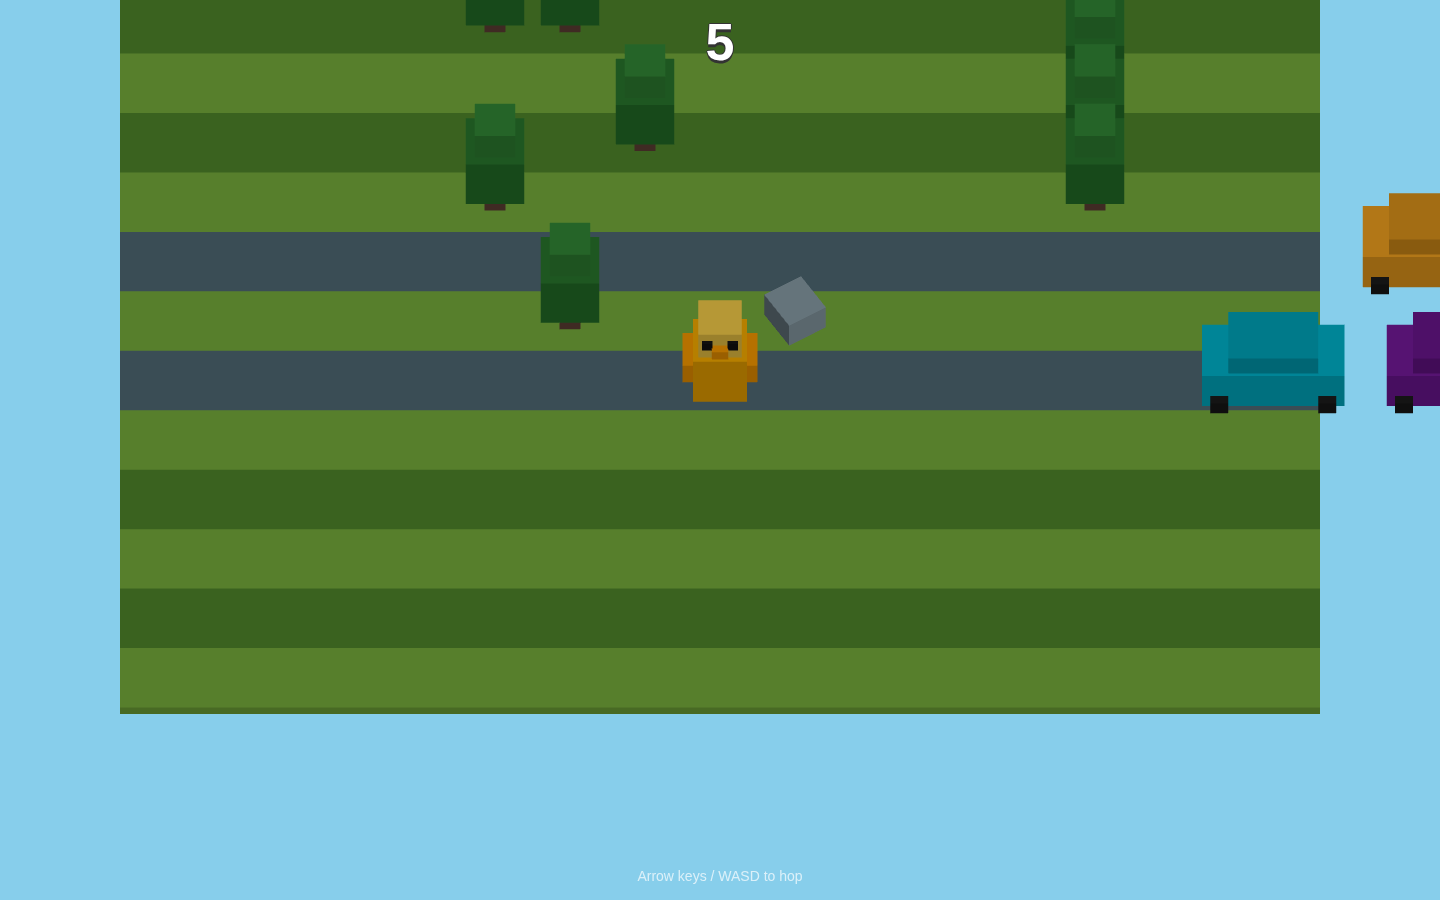
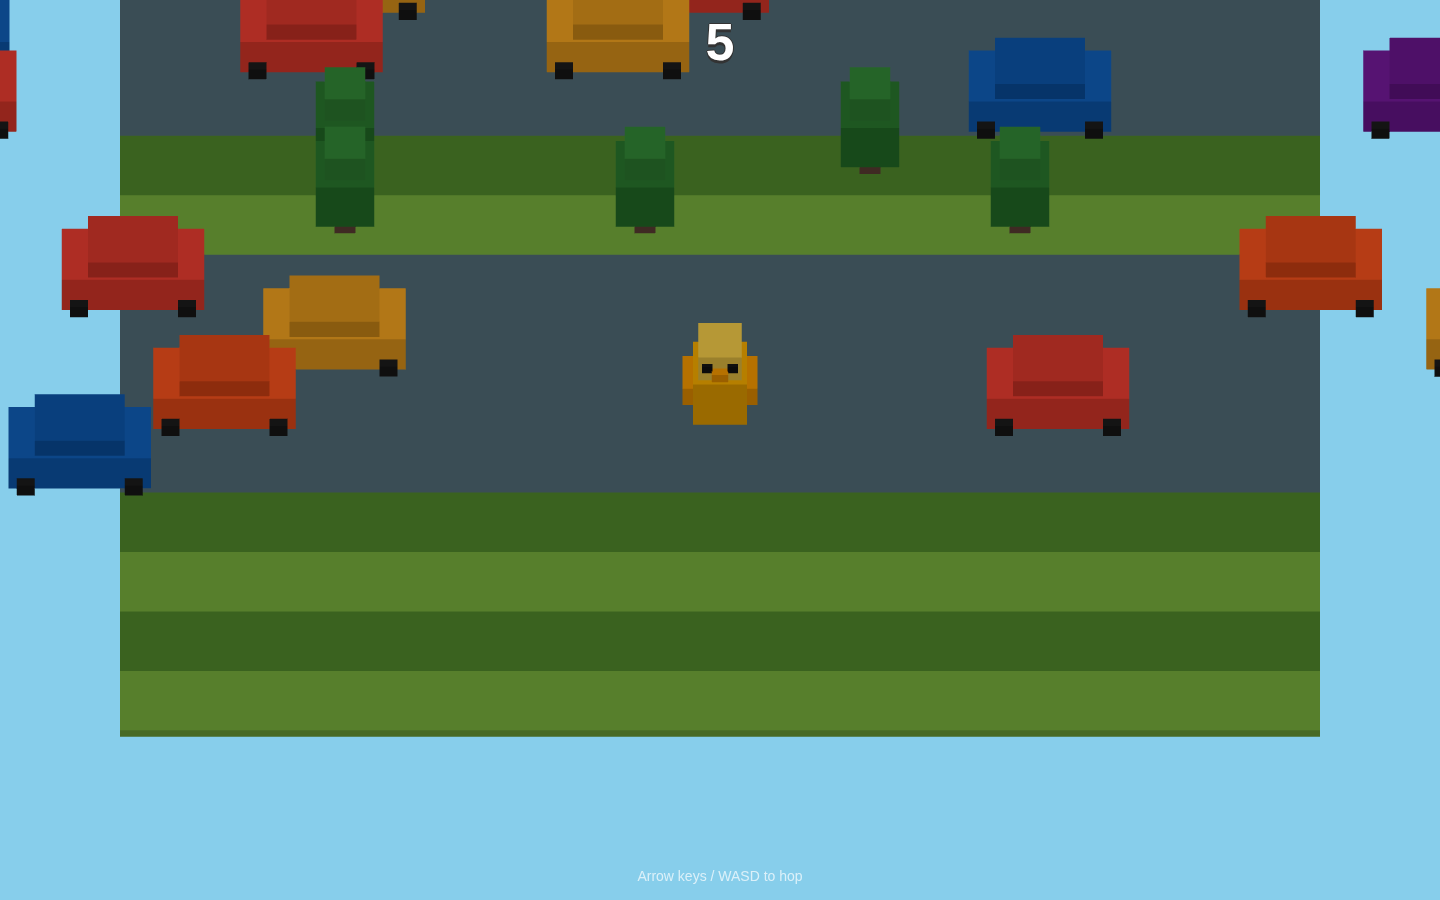
Add difficulty selector and road-heavy lane generation
- Easy/Normal/Hard presets in DIFFICULTIES (lanes.js), persisted to
  localStorage and selectable on the menu overlay
- Each preset tunes road frequency, vehicle speed/density, truck rate,
  safe-row count, and camera auto-advance speed
- Roads now dominate the world after a short safe start on every preset

https://claude.ai/code/session_01KWiQVDTZJgAXaxTVPrL1LZ

diff --git a/crossy-road/js/lanes.js b/crossy-road/js/lanes.js
@@ -111,24 +111,56 @@ function darken(color, factor) {
   return c.getHex();
 }
 
+// ─── Difficulty presets ───────────────────────────────────────────────────────
+// Road-heavy by design: even Easy is mostly traffic after the safe start.
+export const DIFFICULTIES = {
+  easy: {
+    label: 'Easy',
+    safeRows: 4,
+    roadBase: 0.45, roadRamp: 0.020, roadMax: 0.75,
+    speedBase: 2.2, speedRamp: 0.060, speedMax: 6.0,
+    countMin: 1, countMax: 3, countRamp: 12,
+    truckChance: 0.20, autoAdvance: 0.22,
+  },
+  normal: {
+    label: 'Normal',
+    safeRows: 3,
+    roadBase: 0.65, roadRamp: 0.025, roadMax: 0.85,
+    speedBase: 2.8, speedRamp: 0.090, speedMax: 7.5,
+    countMin: 2, countMax: 4, countRamp: 8,
+    truckChance: 0.25, autoAdvance: 0.35,
+  },
+  hard: {
+    label: 'Hard',
+    safeRows: 2,
+    roadBase: 0.82, roadRamp: 0.020, roadMax: 0.94,
+    speedBase: 3.6, speedRamp: 0.120, speedMax: 9.5,
+    countMin: 3, countMax: 5, countRamp: 6,
+    truckChance: 0.32, autoAdvance: 0.50,
+  },
+};
+
 // ─── Lane difficulty helpers ──────────────────────────────────────────────────
-function getLaneType(row, rng) {
-  if (row <= 3) return 'grass';
-  const roadChance = Math.min(0.65, 0.15 + row * 0.02);
-  return rng() < roadChance ? 'road' : 'grass';
+function getLaneType(row, cfg) {
+  if (row <= cfg.safeRows) return 'grass';
+  const ramp = (row - cfg.safeRows) * cfg.roadRamp;
+  const roadChance = Math.min(cfg.roadMax, cfg.roadBase + ramp);
+  return Math.random() < roadChance ? 'road' : 'grass';
 }
 
-function getVehicleSpeed(row) {
-  const base = 2.5 + Math.min(row * 0.08, 5.0);
-  return rand(base * 0.8, base * 1.2);
+function getVehicleSpeed(row, cfg) {
+  const base = cfg.speedBase + Math.min(row * cfg.speedRamp, cfg.speedMax - cfg.speedBase);
+  return rand(base * 0.85, base * 1.15);
 }
 
-function getVehicleCount(row) {
-  return randInt(2, Math.min(4, 2 + Math.floor(row / 8)));
+function getVehicleCount(row, cfg) {
+  const cap = Math.min(cfg.countMax, cfg.countMin + Math.floor(row / cfg.countRamp));
+  return randInt(cfg.countMin, cap);
 }
 
 // ─── Lane manager ─────────────────────────────────────────────────────────────
 export function createLaneManager(scene) {
+  let cfg = DIFFICULTIES.normal;
   const activeLanes = new Map(); // row -> laneData
   // Pools (recycled lane components)
   const groundPool = [];
@@ -152,7 +184,7 @@ export function createLaneManager(scene) {
   function setupLane(row) {
     if (activeLanes.has(row)) return;
 
-    const type = getLaneType(row, Math.random.bind(Math));
+    const type = getLaneType(row, cfg);
     const worldZ = -row * CELL;
 
     const ground = getFromPool(groundPool, makeGround);
@@ -206,11 +238,11 @@ export function createLaneManager(scene) {
   function setupRoadLane(lane, row) {
     lane.occupiedCols = new Set();
     const dir = Math.random() < 0.5 ? 1 : -1;
-    const speed = getVehicleSpeed(row);
-    const count = getVehicleCount(row);
+    const speed = getVehicleSpeed(row, cfg);
+    const count = getVehicleCount(row, cfg);
 
     for (let i = 0; i < count; i++) {
-      const isLong = Math.random() < 0.25 && row > 8;
+      const isLong = Math.random() < cfg.truckChance && row > 8;
       const color = isLong ? pick(TRUCK_COLORS) : pick(CAR_COLORS);
       const mesh = isLong
         ? getFromPool(truckPool, (s) => makeTruck(s, color))
@@ -302,7 +334,15 @@ export function createLaneManager(scene) {
     for (const row of activeLanes.keys()) recycleLane(row);
   }
 
-  return { ensureRow, recycleBehind, update, isCellBlocked, getLane, reset };
+  function setDifficulty(key) {
+    cfg = DIFFICULTIES[key] || DIFFICULTIES.normal;
+  }
+
+  function getConfig() {
+    return cfg;
+  }
+
+  return { ensureRow, recycleBehind, update, isCellBlocked, getLane, reset, setDifficulty, getConfig };
 }
 
 // ─── Helpers ─────────────────────────────────────────────────────────────────

diff --git a/crossy-road/js/main.js b/crossy-road/js/main.js
@@ -7,8 +7,9 @@ import { createHUD }        from './hud.js';
 const CELL           = 1;
 const SPAWN_AHEAD    = 22;   // generate this many rows ahead of player
 const RECYCLE_BEHIND = 10;   // recycle rows this far behind player
-const AUTO_ADVANCE   = 0.35; // camera auto-advance speed (rows/sec) — idle death
 const KILL_BEHIND    = 4;    // rows behind camera before death
+
+let autoAdvance = 0.35;      // camera auto-advance speed (rows/sec) — set per difficulty
 
 // ── Smooth lerp for camera ───────────────────────────────────────────────────
 function lerp(a, b, t) { return a + (b - a) * t; }
@@ -29,7 +30,14 @@ let cameraRow  = 0;   // the row the camera is currently locked to
 const { renderer, camera, scene, updateCamera } = createScene();
 const player  = createPlayer(scene);
 const lanes   = createLaneManager(scene);
-const hud     = createHUD(onPlay);
+const hud     = createHUD(onPlay, applyDifficulty);
+
+function applyDifficulty(key) {
+  lanes.setDifficulty(key);
+}
+
+// Apply the persisted difficulty selection on load
+applyDifficulty(hud.getDifficulty());
 
 // Initial render so the scene isn't blank before "Play"
 updateCamera(0, 0);
@@ -63,6 +71,9 @@ function startGame() {
   autoRow = 0;
   cameraRow = 0;
   camFocusZ = 0;
+
+  lanes.setDifficulty(hud.getDifficulty());
+  autoAdvance = lanes.getConfig().autoAdvance;
 
   player.reset();
   lanes.reset();
@@ -100,7 +111,7 @@ function gameLoop(timestamp) {
 
   // ── Camera follow ──────────────────────────────────────────────────────────
   // auto-advance slowly pushes camera forward
-  autoRow += dt * AUTO_ADVANCE;
+  autoRow += dt * autoAdvance;
   // camera row = further of: player's max progress, or auto advance
   const targetRow = Math.max(player.maxRow, Math.floor(autoRow));
   cameraRow = Math.max(cameraRow, targetRow);

diff --git a/crossy-road/index.html b/crossy-road/index.html
@@ -40,8 +40,26 @@
     #overlay-subtitle {
       font-size: 22px; color: #FFD700;
       text-shadow: 0 2px 0 #333;
-      margin-bottom: 32px;
+      margin-bottom: 24px;
       min-height: 28px;
+    }
+
+    #difficulty {
+      display: flex; gap: 10px; margin-bottom: 28px;
+    }
+    .diff-btn {
+      font-family: inherit; font-size: 16px; font-weight: 900;
+      padding: 10px 22px; border: none; border-radius: 11px;
+      background: rgba(255,255,255,0.18); color: #fff; cursor: pointer;
+      box-shadow: 0 4px 0 rgba(0,0,0,0.35);
+      transition: transform 0.08s, box-shadow 0.08s, background 0.12s;
+      outline: none;
+    }
+    .diff-btn:hover { background: rgba(255,255,255,0.30); }
+    .diff-btn:active { transform: translateY(3px); box-shadow: 0 1px 0 rgba(0,0,0,0.35); }
+    .diff-btn.selected {
+      background: #FF9800; color: #fff;
+      box-shadow: 0 4px 0 #E65100;
     }
     #play-btn {
       font-size: 22px; font-family: inherit; font-weight: 900;
@@ -70,6 +88,11 @@
   <div id="overlay">
     <div id="overlay-title">Crossy Road</div>
     <div id="overlay-subtitle"></div>
+    <div id="difficulty">
+      <button class="diff-btn" data-diff="easy">Easy</button>
+      <button class="diff-btn selected" data-diff="normal">Normal</button>
+      <button class="diff-btn" data-diff="hard">Hard</button>
+    </div>
     <button id="play-btn">Play</button>
   </div>
 

diff --git a/crossy-road/js/hud.js b/crossy-road/js/hud.js
@@ -4,9 +4,26 @@ const overlayEl  = document.getElementById('overlay');
 const titleEl    = document.getElementById('overlay-title');
 const subtitleEl = document.getElementById('overlay-subtitle');
 const playBtn    = document.getElementById('play-btn');
+const diffBtns   = Array.from(document.querySelectorAll('.diff-btn'));
 
-export function createHUD(onPlay) {
+export function createHUD(onPlay, onDifficultyChange) {
   playBtn.addEventListener('click', onPlay);
+
+  let difficulty = localStorage.getItem('crossyDifficulty') || 'normal';
+  applyDifficultySelection(difficulty);
+
+  diffBtns.forEach((btn) => {
+    btn.addEventListener('click', () => {
+      difficulty = btn.dataset.diff;
+      localStorage.setItem('crossyDifficulty', difficulty);
+      applyDifficultySelection(difficulty);
+      if (onDifficultyChange) onDifficultyChange(difficulty);
+    });
+  });
+
+  function applyDifficultySelection(key) {
+    diffBtns.forEach((b) => b.classList.toggle('selected', b.dataset.diff === key));
+  }
 
   function setScore(n) {
     scoreEl.textContent = n;
@@ -37,5 +54,9 @@ export function createHUD(onPlay) {
     overlayEl.classList.add('hidden');
   }
 
-  return { setScore, setBest, showMenu, showGameOver, hideOverlay };
+  function getDifficulty() {
+    return difficulty;
+  }
+
+  return { setScore, setBest, showMenu, showGameOver, hideOverlay, getDifficulty };
 }

diff --git a/crossy-road/README.md b/crossy-road/README.md
@@ -36,8 +36,22 @@ One input is queued while a hop is mid-animation so the game feels snappy withou
 - **Best score** is persisted in `localStorage` and survives refreshes
 - **Grass lanes** — safe, may contain trees or rocks that block movement
 - **Road lanes** — vehicles move left or right; overlap = instant death
+- **Road-heavy by design** — after a short safe start, most lanes are traffic
 - **Difficulty** ramps as you advance: more roads, faster and denser traffic
 - **Fall-behind death** — an auto-advancing camera slowly pushes forward; idle too long and you're gone
+
+## Difficulty
+
+Pick **Easy**, **Normal**, or **Hard** from the menu — your choice is saved to
+`localStorage`. Each preset tunes how road-heavy and fast the world is:
+
+| Setting | Safe rows | Road chance (base → max) | Top speed | Max cars/lane | Camera push |
+|---------|:---:|:---:|:---:|:---:|:---:|
+| **Easy** | 4 | 45% → 75% | 6.0 | 3 | slow |
+| **Normal** | 3 | 65% → 85% | 7.5 | 4 | medium |
+| **Hard** | 2 | 82% → 94% | 9.5 | 5 | fast |
+
+All presets live in `DIFFICULTIES` in `js/lanes.js` — tweak any value to taste.
 
 ## Tech stack
 
@@ -50,7 +64,7 @@ One input is queued while a hop is mid-animation so the game feels snappy withou
 
 | Constant | Default | Effect |
 |----------|---------|--------|
-| `AUTO_ADVANCE` | `0.35` rows/sec | Camera push speed — lower = more forgiving idle time |
+| `DIFFICULTIES.*.autoAdvance` | `0.22`–`0.50` rows/sec | Camera push speed per difficulty — lower = more forgiving idle time |
 | `KILL_BEHIND` | `4` rows | How far behind camera before death |
 | `HOP_DURATION` | `0.13` s | Hop animation speed |
 | `ARC_HEIGHT` | `0.55` | Jump arc height |
